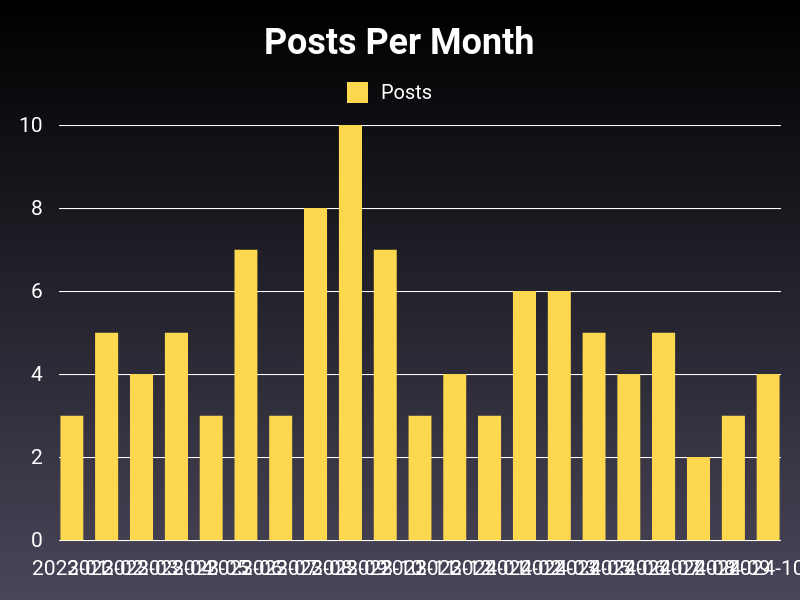
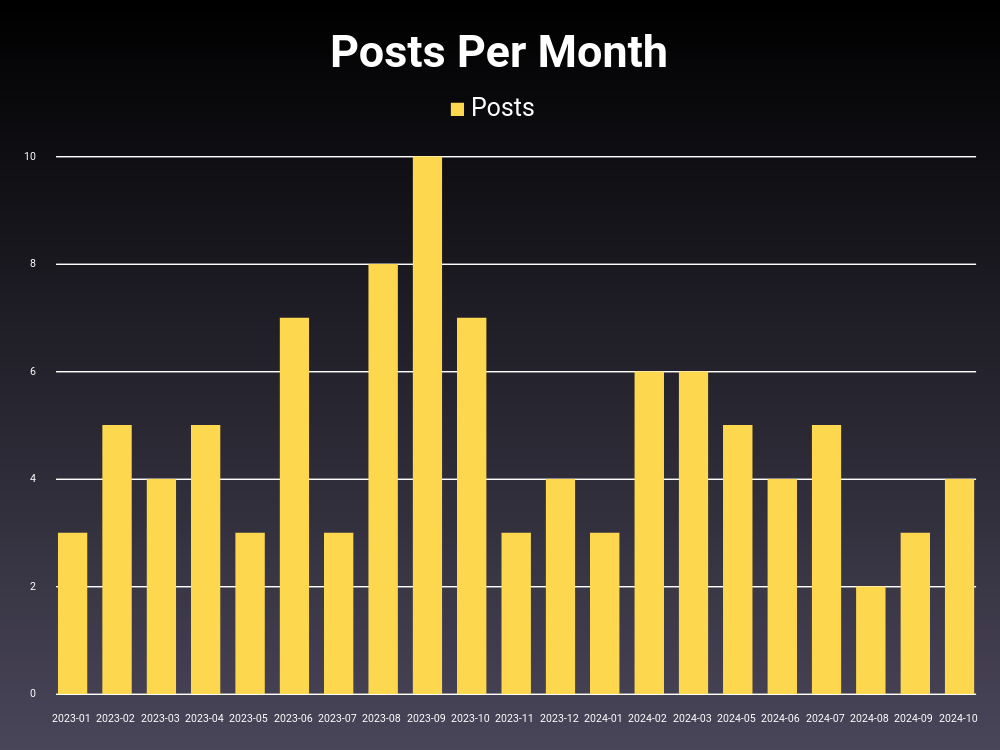
made ruby bar graph look cleaner

diff --git a/CSADPRG_MCO2_CorpusAnalysis/MCO2_4_Ruby/MCO_4_Ruby.rb b/CSADPRG_MCO2_CorpusAnalysis/MCO2_4_Ruby/MCO_4_Ruby.rb
@@ -163,32 +163,19 @@ def create_word_cloud(top_words)
 end
 
 def create_bar_chart(posts_per_month)
-  bar_chart = Gruff::Bar.new
+  bar_chart = Gruff::Bar.new(1000)
   bar_chart.title = 'Posts Per Month'
   months = posts_per_month.keys.sort
   values = months.map { |month| posts_per_month[month] }
 
   bar_chart.labels = months.each_with_index.map { |month, index| [index, month] }.to_h
   bar_chart.data('Posts', values)
+  
+  # Rotate labels by 45 degrees
+  bar_chart.marker_font_size = 8.5  # Adjust font size for better appearance
+  bar_chart.legend_box_size = 10  # Optional adjustment for legend
   bar_chart.write('Ruby_posts_per_month.png')
 end
-
-# def create_bar_chart(posts_per_month)
-#   bar_chart = Gruff::Bar.new(width: 1000)
-#   bar_chart.title = 'Posts Per Month'
-
-#   months = posts_per_month.keys.sort
-#   values = months.map { |month| posts_per_month[month] }
-
-#   # Rotate labels by 45 degrees
-#   # bar_chart.x_axis_label_rotate = 45
-#   # bar_chart.font = { :angle => 45 }
-
-
-#   bar_chart.labels = months.each_with_index.map { |month, index| [index, month] }.to_h
-#   bar_chart.data('Posts', values)
-#   bar_chart.write('Ruby_posts_per_month.png')
-# end
 
 def create_pie_chart(symbol_counts)
   pie_chart = Gruff::Pie.new
